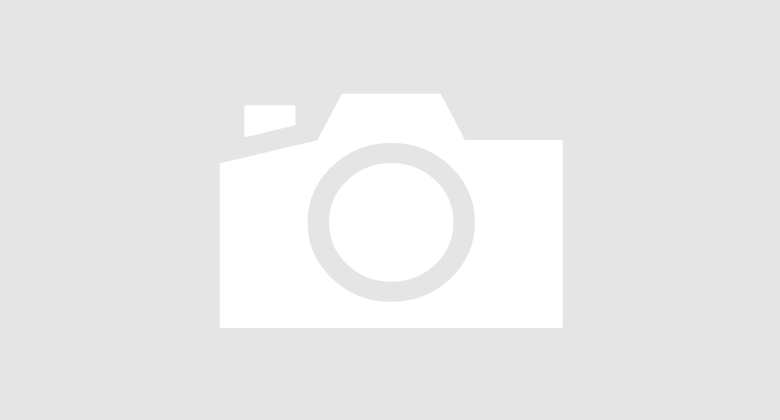
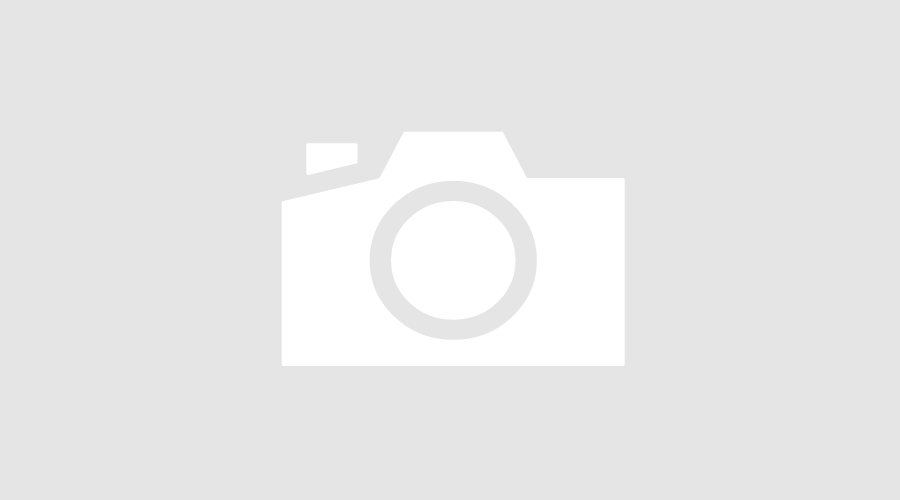
added own template function to display slider images

Changed region(s): [[0.2769, 0.2167, 0.7385, 0.8048]]

diff --git a/css/flexslider.css b/css/flexslider.css
@@ -73,7 +73,7 @@ html[xmlns] .zeeflexslider .zeeslides {
 	position: relative;
 	overflow: hidden;
 	margin: 0 0 2em 0;
-	background: #fff;
+	background: #e5e5e5;
 	box-shadow: 0 1px 2px #bbb;
 }
 
@@ -100,12 +100,21 @@ html[xmlns] .zeeflexslider .zeeslides {
 	box-shadow: none;
 }
 
-.post-slider .zeeslide .type-post .slide-image {
+.post-slider .zeeslide .slide-image-link {
+	width: 67%;
+}
+
+.post-slider .zeeslide .slide-image-wrap {
 	margin: 0;
 	padding: 0;
-	max-width: 900px;
+}
+
+.post-slider .zeeslide .slide-image {
+	margin: auto;
+	padding: 0;
+	max-width: 100%;
 	max-height: 500px;
-	width: 67%;
+	width: auto;
 	height: auto;
 	vertical-align: top;
 }
@@ -120,6 +129,7 @@ html[xmlns] .zeeflexslider .zeeslides {
 	margin: 0;
 	padding: 0;
 	width: 33%;
+	background: #fff;
 	-webkit-box-orient: vertical;
 	-webkit-box-direction: normal;
 }

diff --git a/inc/slider.php b/inc/slider.php
@@ -25,13 +25,13 @@ function napoli_slider_scripts() {
 		wp_enqueue_script( 'jquery-flexslider', get_template_directory_uri() . '/js/jquery.flexslider-min.js', array( 'jquery' ), '2.6.0' );
 
 		// Register and enqueue slider setup.
-		wp_enqueue_script( 'napoli-slider', get_template_directory_uri() . '/js/slider.js', array( 'jquery-flexslider' ) );
+		wp_enqueue_script( 'napoli-slider', get_template_directory_uri() . '/js/slider.js', array( 'jquery-flexslider' ), '20170421' );
 
 		// Register and enqueue slider CSS.
 		if ( is_rtl() ) {
 			wp_enqueue_style( 'napoli-slider', get_template_directory_uri() . '/css/flexslider-rtl.css' );
 		} else {
-			wp_enqueue_style( 'napoli-slider', get_template_directory_uri() . '/css/flexslider.css' );
+			wp_enqueue_style( 'napoli-slider', get_template_directory_uri() . '/css/flexslider.css', array(), '20170421' );
 		}
 
 	endif;
@@ -49,6 +49,37 @@ add_action( 'wp_enqueue_scripts', 'napoli_slider_scripts' );
 function napoli_slider_excerpt_length( $length ) {
 	return 25;
 }
+
+
+if ( ! function_exists( 'napoli_slider_image' ) ) :
+	/**
+	 * Displays the featured image of the post as slider image
+	 *
+	 * @param string $size Post thumbnail size.
+	 * @param array  $attr Post thumbnail attributes.
+	 */
+	function napoli_slider_image( $size = 'post-thumbnail', $attr = array() ) {
+
+		// Display Post Thumbnail.
+		if ( has_post_thumbnail() ) : ?>
+
+			<a class="slide-image-link" href="<?php the_permalink(); ?>" rel="bookmark">
+				<figure class="slide-image-wrap">
+					<?php the_post_thumbnail( $size, $attr ); ?>
+				</figure>
+			</a>
+
+		<?php else : ?>
+
+			<a class="slide-image-link" href="<?php the_permalink(); ?>" rel="bookmark">
+				<figure class="slide-image-wrap">
+					<img src="<?php echo get_template_directory_uri(); ?>/images/default-slider-image.png" class="slide-image default-slide-image wp-post-image" />
+				</figure>
+			</a>
+
+		<?php endif;
+	}
+endif;
 
 
 /**

diff --git a/template-parts/content-slider.php b/template-parts/content-slider.php
@@ -11,16 +11,7 @@
 
 	<article id="post-<?php the_ID(); ?>" <?php post_class(); ?>>
 
-		<?php // Display Post Thumbnail or default thumbnail.
-		if ( has_post_thumbnail() ) :
-
-			the_post_thumbnail( 'post-thumbnail', array( 'class' => 'slide-image' ) );
-
-		else : ?>
-
-			<img src="<?php echo get_template_directory_uri(); ?>/images/default-slider-image.png" class="slide-image default-slide-image wp-post-image" alt="" />
-
-		<?php endif;?>
+		<?php napoli_slider_image( 'post-thumbnail', array( 'class' => 'slide-image' ) ); ?>
 
 		<div class="slide-content clearfix">
 
